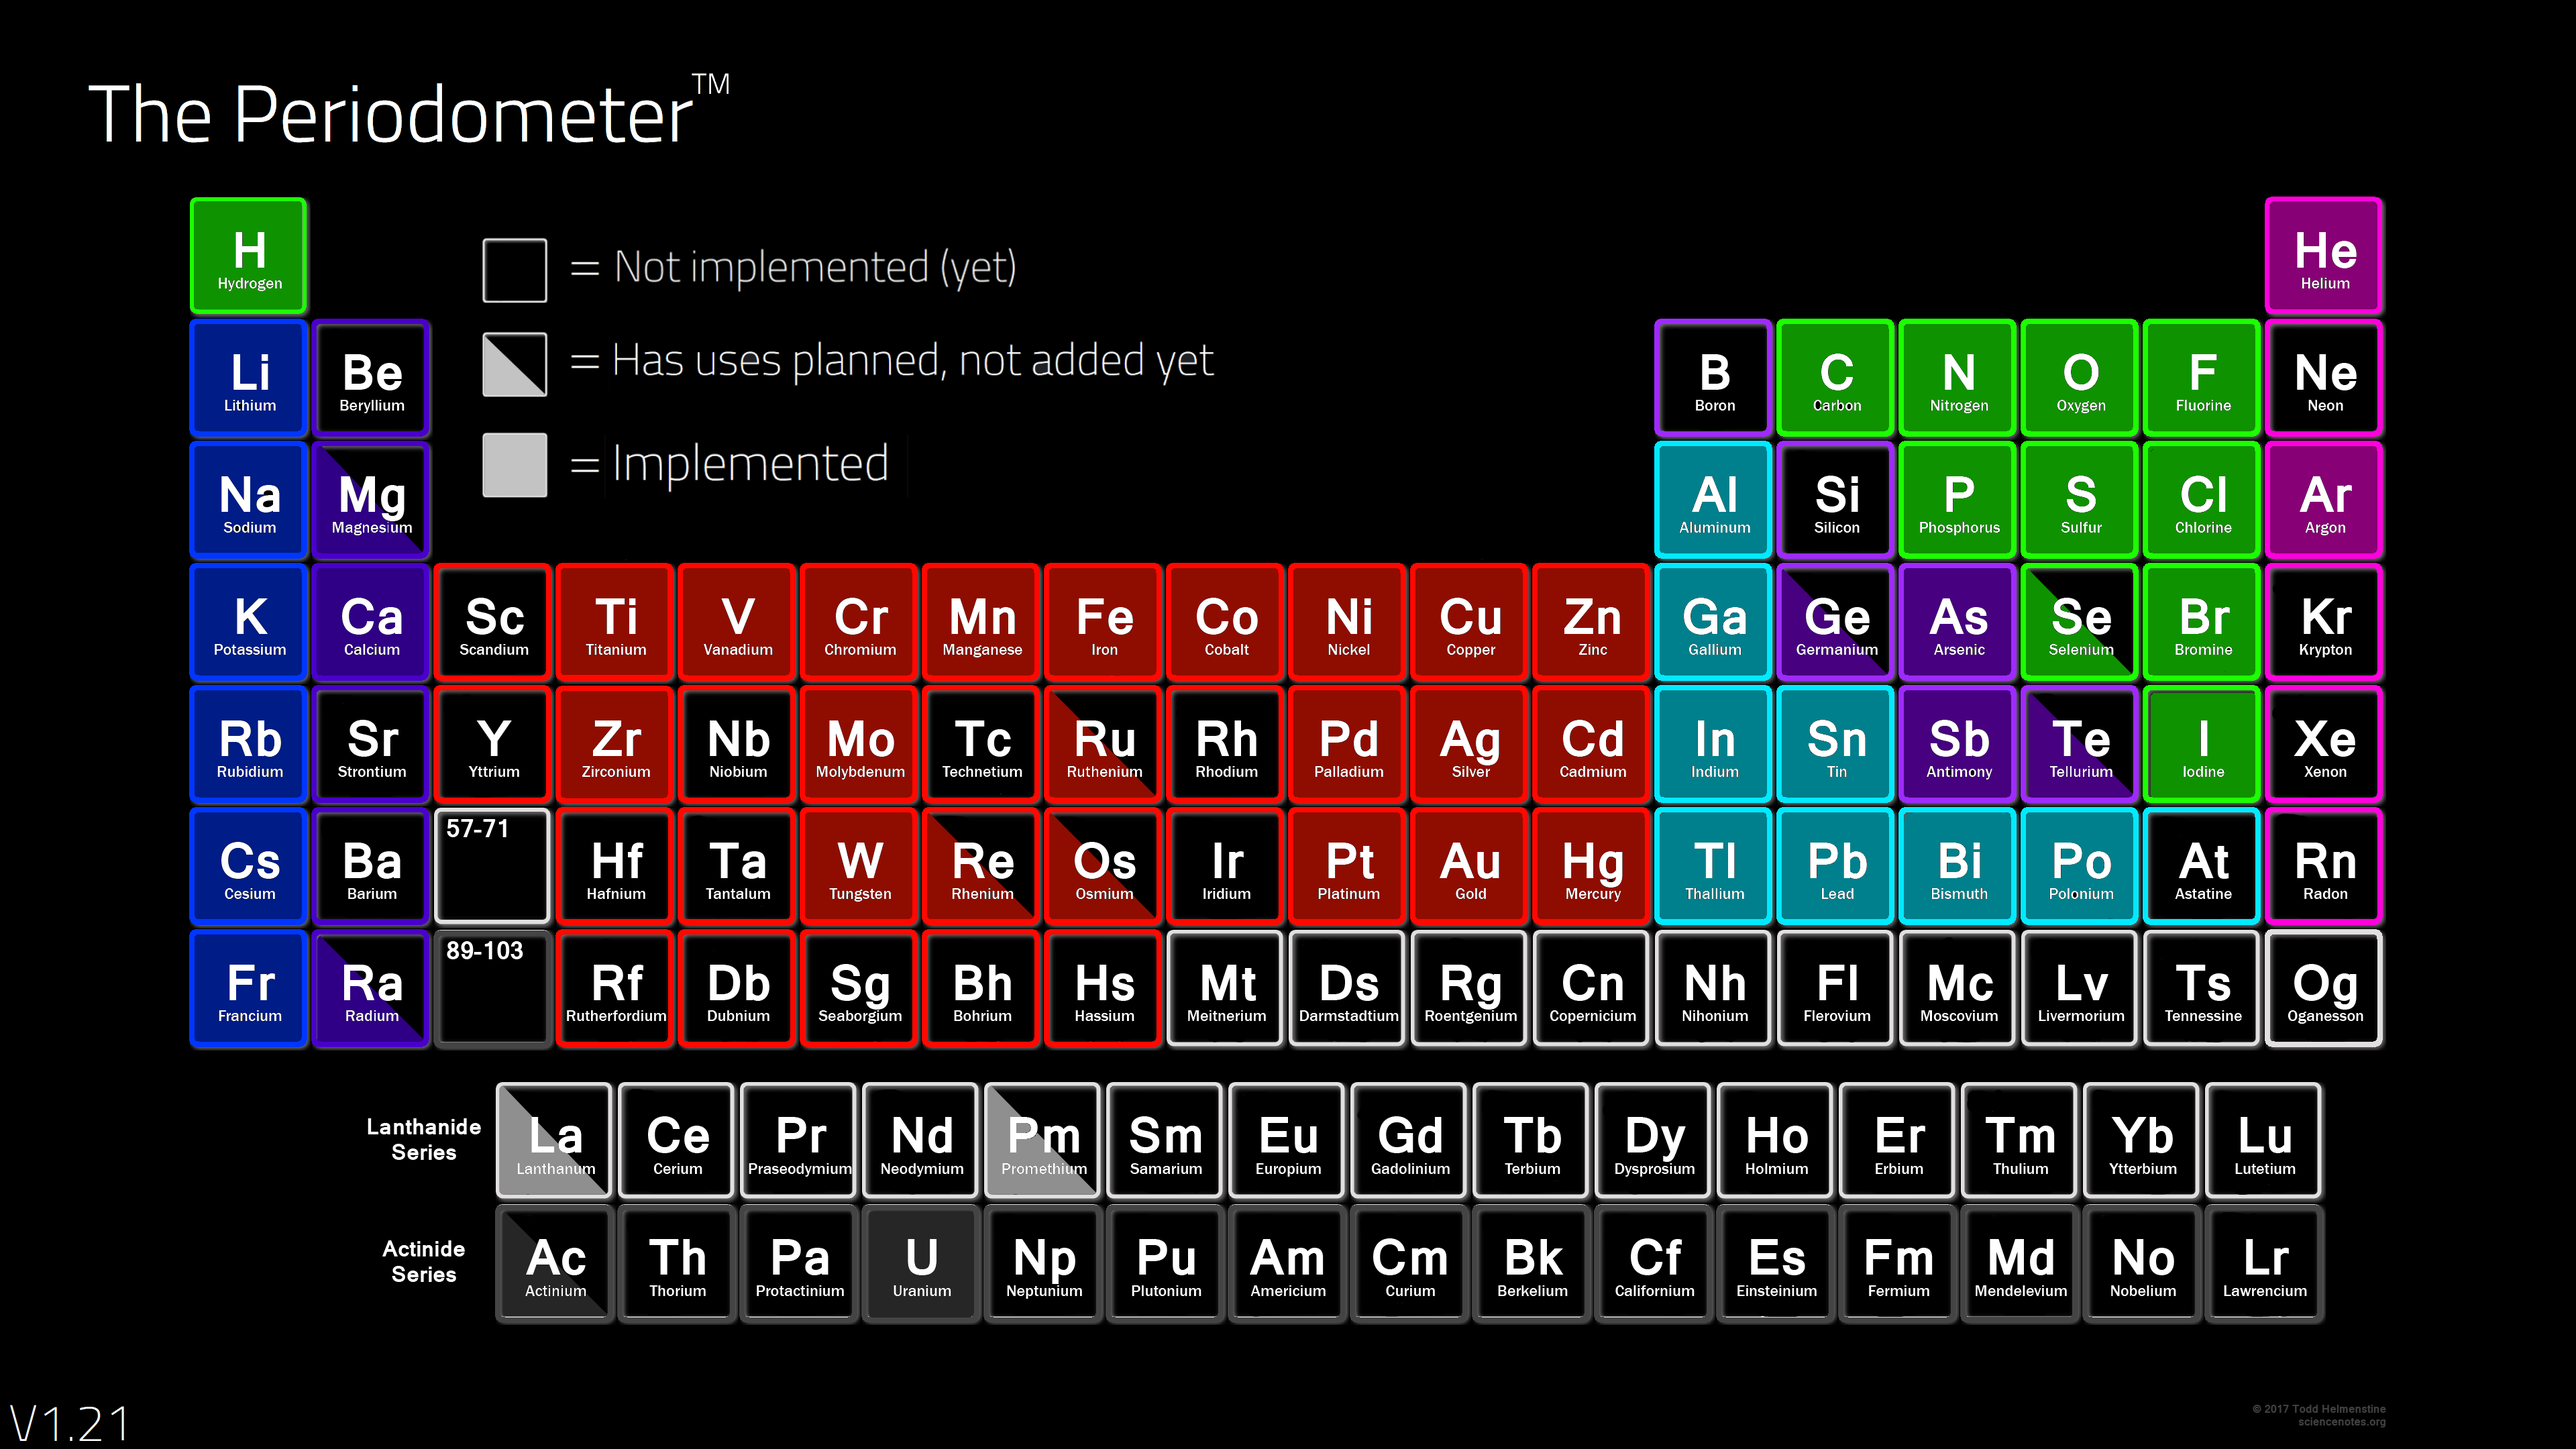
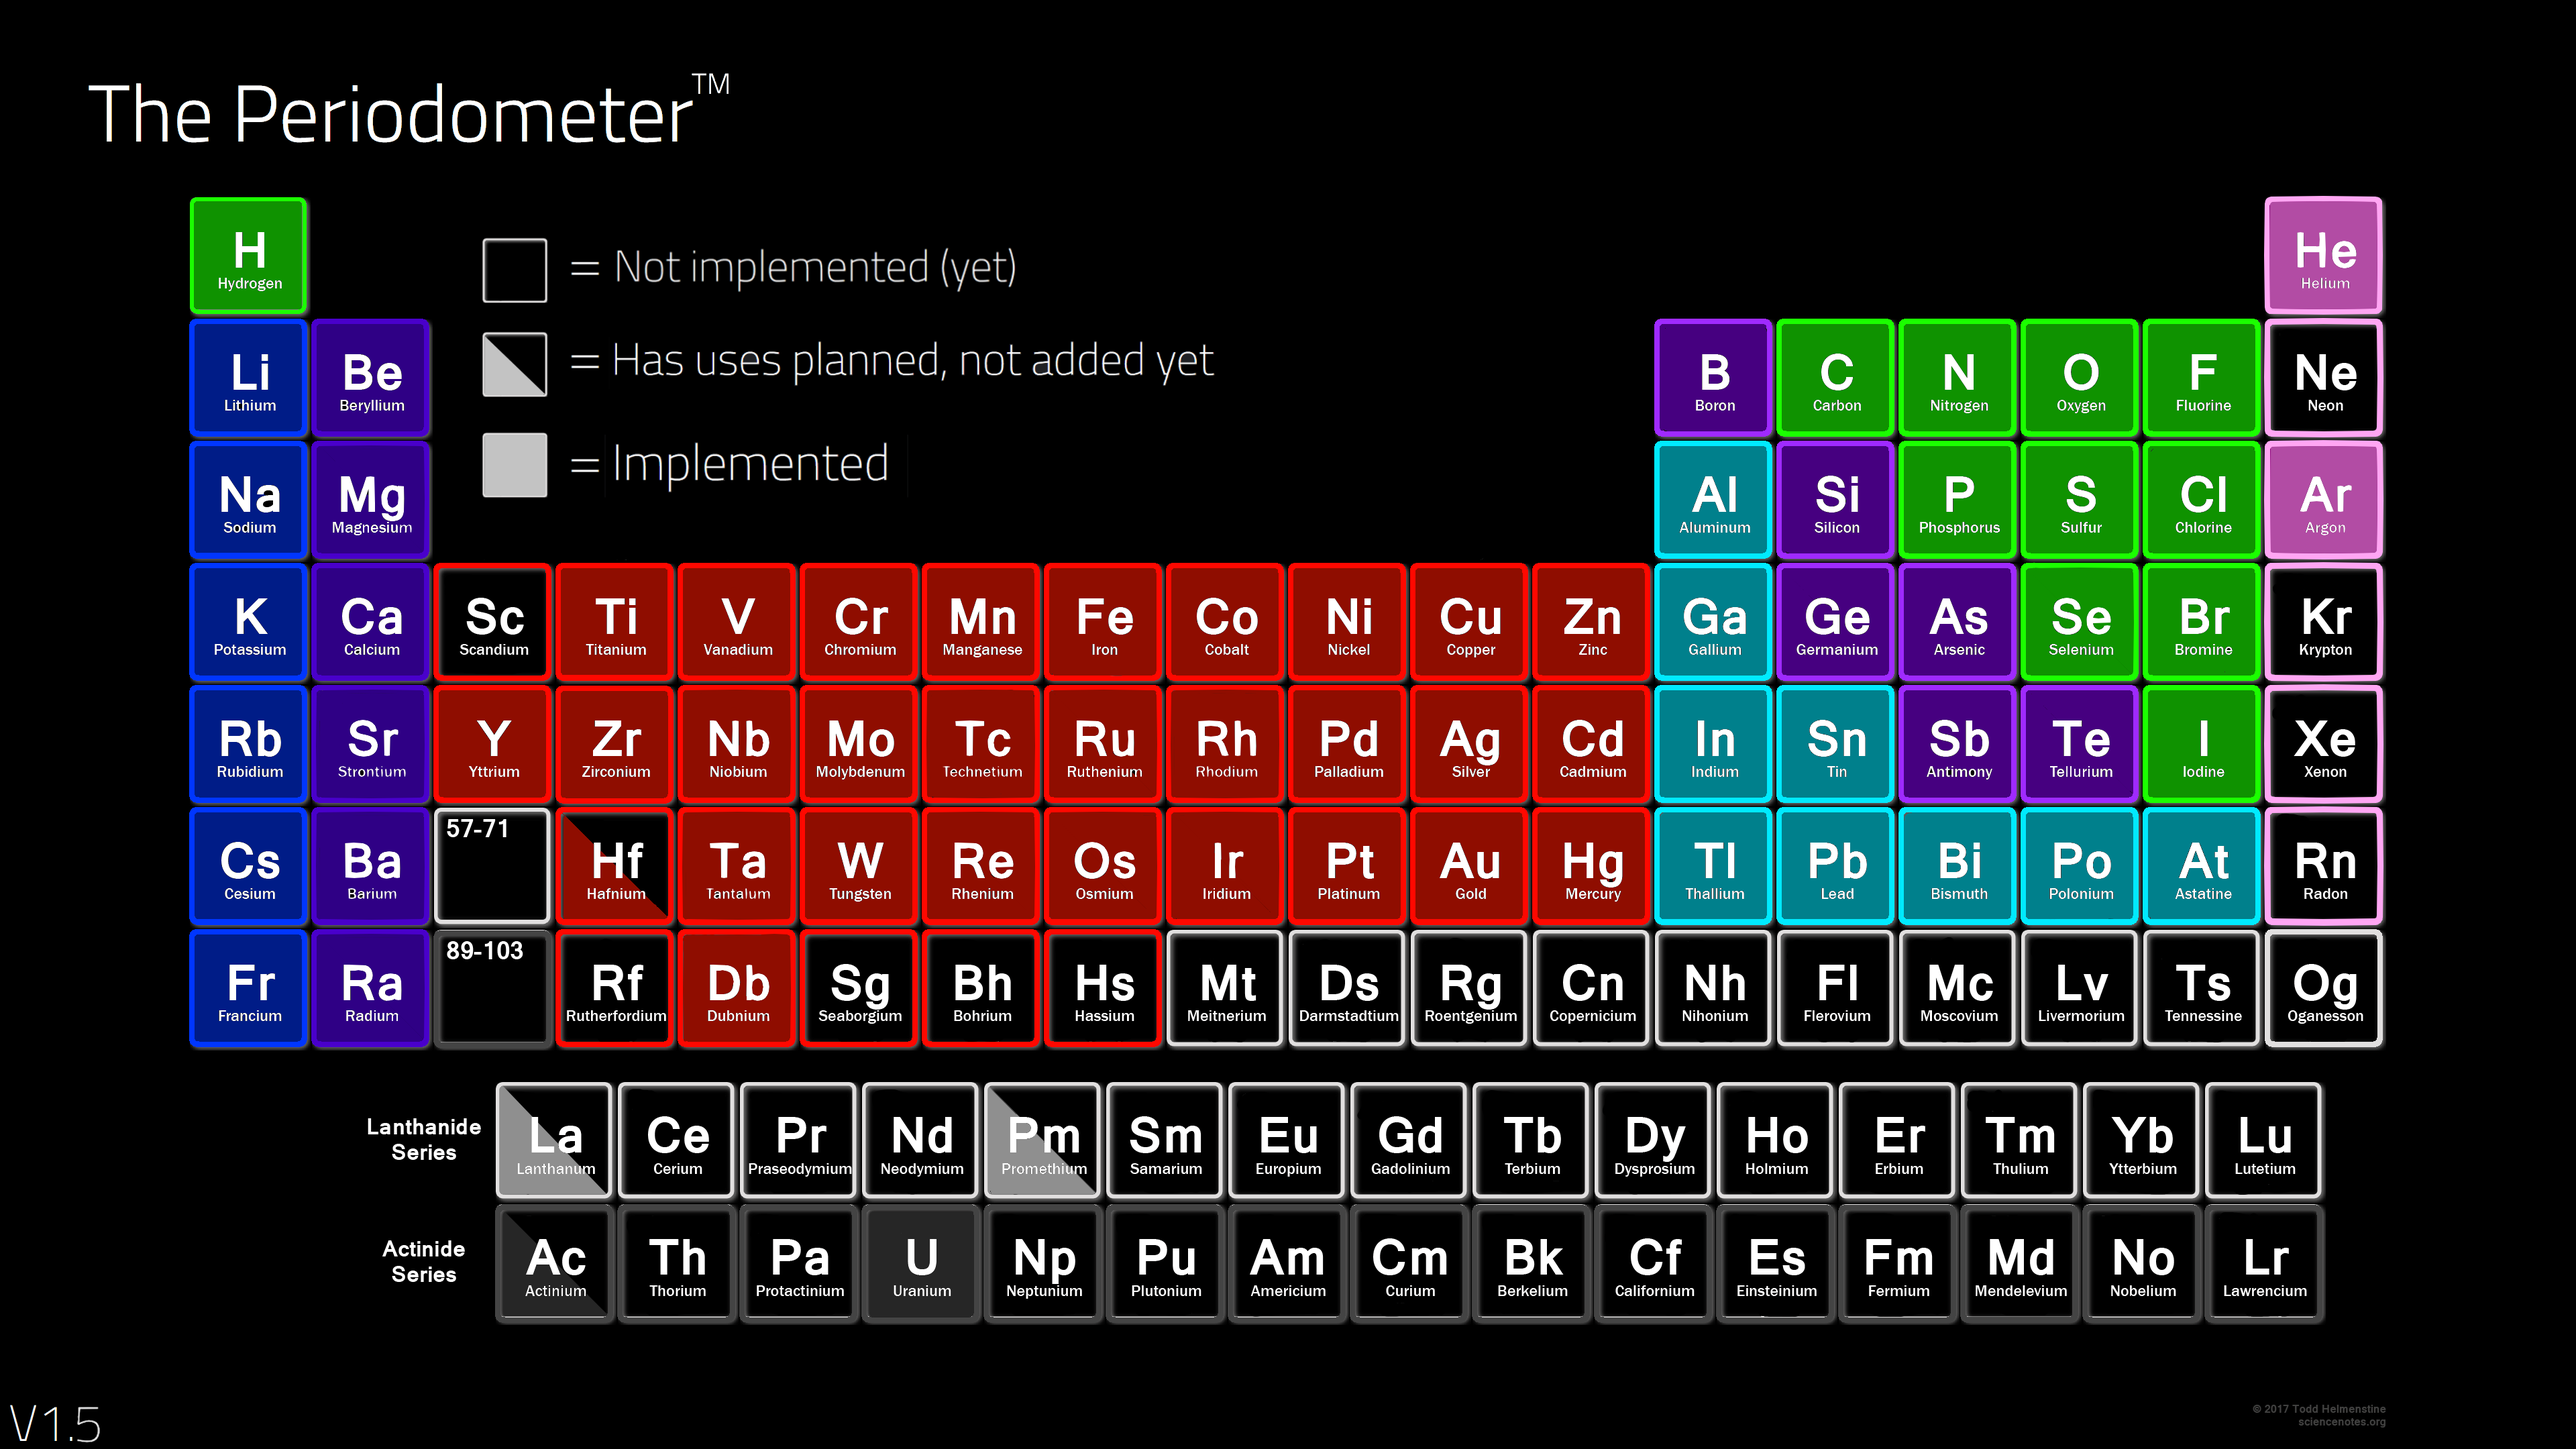
Update Readme to 0.7

diff --git a/README.md b/README.md
@@ -2,7 +2,7 @@
 [![shield](https://img.shields.io/badge/dynamic/json?color=orange&label=Factorio&query=downloads_count&suffix=%20downloads&url=https%3A%2F%2Fmods.factorio.com%2Fapi%2Fmods%2Fperiodic-madness)](https://mods.factorio.com/mod/periodic-madness)
 
 
-**(WIP: 0.6.500 has been released! 0.7 is now in production, and should hopefully come out in the next 2 months or so.)**
+**(WIP: 0.7 is released! 0.8 will be out in the next few months.)**
 
 This overhaul aims to add all the elements of the periodic table to Factorio. Including new and complex production chains to refine and produce new ores and resources for your growing factory, and delving deeper into chemistry and production chains than a normal vanilla playthrough. If you arent a chemistry nerd going in, you'll become one going out.
 
@@ -61,7 +61,7 @@ You also have more then just science packs to put into labs, occasionally findin
 
 #***The Periodometer: 59/118***
 ![The Periodometer](gallery/periodometer.png)
-***Transition Metals: (19/34)***
+***Transition Metals: (28/34)***
 • Iron
 • Copper
 • Nickel
@@ -81,6 +81,15 @@ You also have more then just science packs to put into labs, occasionally findin
 • Cobalt
 • Molybdenum
 • Yttrium
+• Osmium
+• Iridium
+• Ruthenium
+• Rhodium
+• Rhenium
+• Tantalum
+• Niobium
+• Technectium
+• Dubnium
 
 ***Post Transition Metals: (9/9)***
 • Aluminium 
@@ -101,7 +110,7 @@ You also have more then just science packs to put into labs, occasionally findin
 • Tellurium
 • Germanium
 
-***Reactive Non-Metals: (10/10)***
+***Reactive Non-Metals: (11/11)***
 • Oxygen
 • Nitrogen
 • Chlorine
@@ -112,6 +121,7 @@ You also have more then just science packs to put into labs, occasionally findin
 • Fluorine
 • Bromine
 • Iodine
+• Selenium
 
 ***Alkali Metals: (6/6)***
 • Sodium
